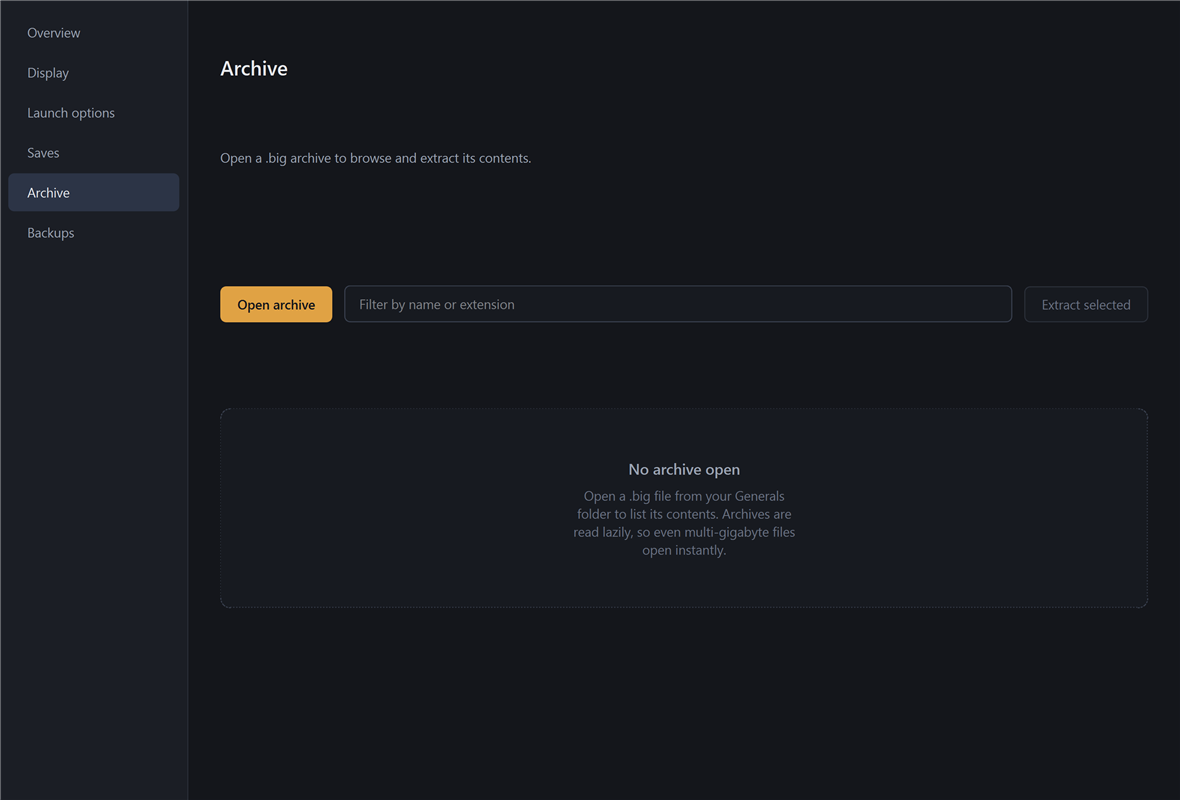
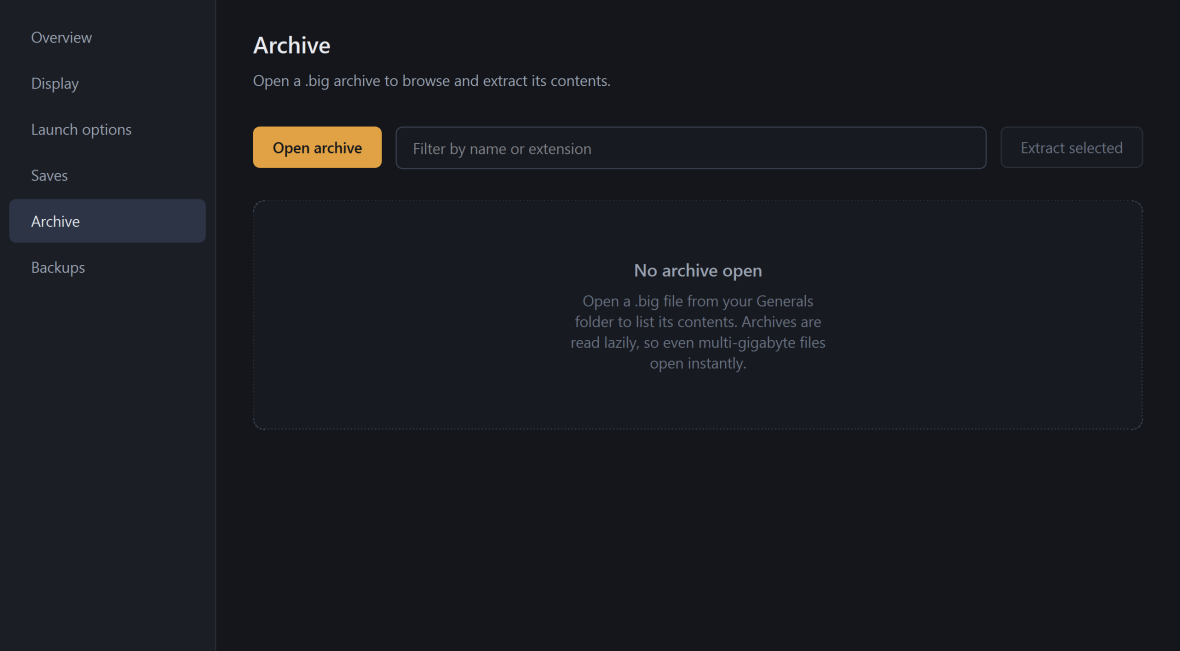
chore: complete the repo layout and add packaging
The repo was missing files a reader would expect, and one screen was
undocumented.

- LICENSE (MIT) added; the README referenced licensing with no file
- pyproject.toml declares dependencies, which previously existed only
  as a pip line in the README. It also points pytest at tests/ and
  excludes tests/local, so `pytest` now works with no arguments.
- tools/capture_docs.py regenerates every documentation screenshot
  from the running app, so the docs cannot drift from the UI. This
  replaces copying files in by hand.
- docs/images/backups.png added; the Backups screen had no screenshot
  and was the only one missing from the README
- Screenshots regenerated through the tool, which downscales properly
  and cut their combined size by about 40 percent
- README gained a project structure section explaining the one-way
  dependency direction between layers
- Stale captures under tests/local/screenshots removed, and the
  gitignore now says why that path is ignored while docs/images is not

Verified: 54 tests pass, 19 local documentation links resolve, and all
six screenshots are referenced.

diff --git a/tools/capture_docs.py b/tools/capture_docs.py
@@ -1,0 +1,81 @@
+"""Capture the documentation screenshots at 2x, then downscale to 1180px wide.
+
+Run from the repo root:  python tools/capture_docs.py
+
+Writes straight into docs/images/, so the docs and the app never drift apart.
+"""
+
+from __future__ import annotations
+
+import os
+import sys
+from pathlib import Path
+
+os.environ["QT_SCALE_FACTOR"] = "2"
+
+ROOT = Path(__file__).resolve().parents[1]
+OUT = ROOT / "docs" / "images"
+WIDTH = 1180
+
+sys.path.insert(0, str(ROOT))
+
+from PySide6.QtCore import Qt  # noqa: E402
+from PySide6.QtWidgets import QApplication  # noqa: E402
+
+from gencompanion.ui.main_window import MainWindow  # noqa: E402
+
+# Rail index -> output filename.
+SHOTS = {
+    0: "overview.png",
+    1: "display.png",
+    3: "saves.png",
+    4: "archive.png",
+    5: "backups.png",
+}
+
+
+def save_scaled(window, target: Path) -> None:
+    """Grab the window and scale to WIDTH so files stay a sane size."""
+    pixmap = window.grab()
+    scaled = pixmap.scaledToWidth(WIDTH, Qt.SmoothTransformation)
+    scaled.save(str(target))
+
+
+def main() -> int:
+    app = QApplication(sys.argv)
+    window = MainWindow()
+    window.resize(1180, 800)
+    window.show()
+    for _ in range(6):
+        app.processEvents()
+
+    OUT.mkdir(parents=True, exist_ok=True)
+
+    for row, filename in SHOTS.items():
+        window.rail.setCurrentRow(row)
+        for _ in range(4):
+            app.processEvents()
+        save_scaled(window, OUT / filename)
+        print(f"  {filename}")
+
+    # Launch options is captured with the FPS caution showing, because the
+    # warning is the point of that screen.
+    window.rail.setCurrentRow(2)
+    for _ in range(3):
+        app.processEvents()
+
+    screen = window.stack.currentWidget()
+    box = getattr(screen, "_checkboxes", {}).get("-nofpslimit")
+    if box is not None:
+        box.setChecked(True)
+        for _ in range(4):
+            app.processEvents()
+    save_scaled(window, OUT / "launch-options.png")
+    print("  launch-options.png")
+
+    print(f"\nwrote {len(SHOTS) + 1} screenshots to {OUT.relative_to(ROOT)}")
+    return 0
+
+
+if __name__ == "__main__":
+    raise SystemExit(main())

diff --git a/README.md b/README.md
@@ -123,6 +123,8 @@ written back out.
 
 ## Backups
 
+![Backups screen](docs/images/backups.png)
+
 Every write is backed up first, and recorded in a journal.
 
 The journal matters more than the backup folder. On restore, scanning a directory
@@ -157,11 +159,37 @@ The rule behind all of it: **fix the machine's assumptions, not the game's rules
 | GenTool | Not tested; GenTool already handles some display work |
 | Generals Online re-release | Not tested |
 
+## Project structure
+
+```
+gencompanion/
+  formats/       File format parsers. Pure stdlib, no OS calls, no Qt.
+    big/           BIG archive reader and writer
+    save/          Save file identification (read-only)
+    ini/           Order- and comment-preserving INI parser
+  domain/        Business logic. Never imports Qt.
+                   install detection, launch options, display settings
+  safety/        Backup, change journal, restore. Every write goes through here.
+  ui/            PySide6 interface
+    tokens.py      The only place colour, spacing and type live
+    screens/       One module per screen
+
+docs/            Documentation and screenshots
+tests/           Test suite and fixtures
+  local/           Opt-in probes that need a real game installation
+tools/           Development scripts
+main.py          Entry point
+```
+
+The dependency direction is one-way: `ui` imports `domain`, `domain` imports
+`formats` and `safety`, and `formats` imports nothing from the project. That is
+what keeps the core testable without a display.
+
 ## Building from source
 
 ```
 python -m venv .venv
-.venv\Scripts\pip install PySide6 pyinstaller psutil
+.venv\Scripts\pip install -e ".[dev]"
 .venv\Scripts\python main.py
 ```
 
@@ -173,7 +201,16 @@ To produce the executable:
 
 Output lands in `dist\GeneralsCompanion.exe`.
 
-## Licence and attribution
+To regenerate the documentation screenshots after a UI change:
+
+```
+.venv\Scripts\python tools\capture_docs.py
+```
+
+## Licence
+
+MIT. See [LICENSE](LICENSE).
 
 Command & Conquer: Generals is a trademark of Electronic Arts. This is an
-unofficial community tool and ships no game assets.
+unofficial community tool, not affiliated with or endorsed by EA, and it ships
+no game assets.

diff --git a/docs/README.md b/docs/README.md
@@ -7,7 +7,9 @@
 | [SPEC.md](SPEC.md) | What was built and the decisions behind it, including where the build diverged from the original plan. |
 | [PLAN.md](PLAN.md) | The layered build order, kept as a record of the reasoning. |
 
-`images/` holds the screenshots used by the README and tutorial.
+`images/` holds the screenshots used by the README and tutorial. Regenerate
+them after a UI change with `python tools/capture_docs.py` from the repo root,
+so the documentation never drifts from the app.
 
 ## Reading order
 
